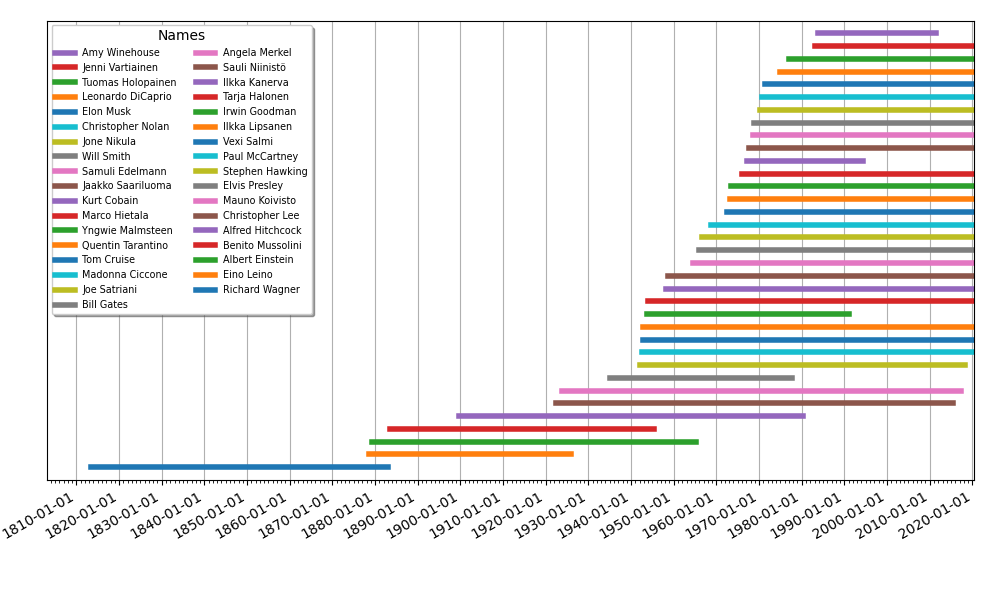
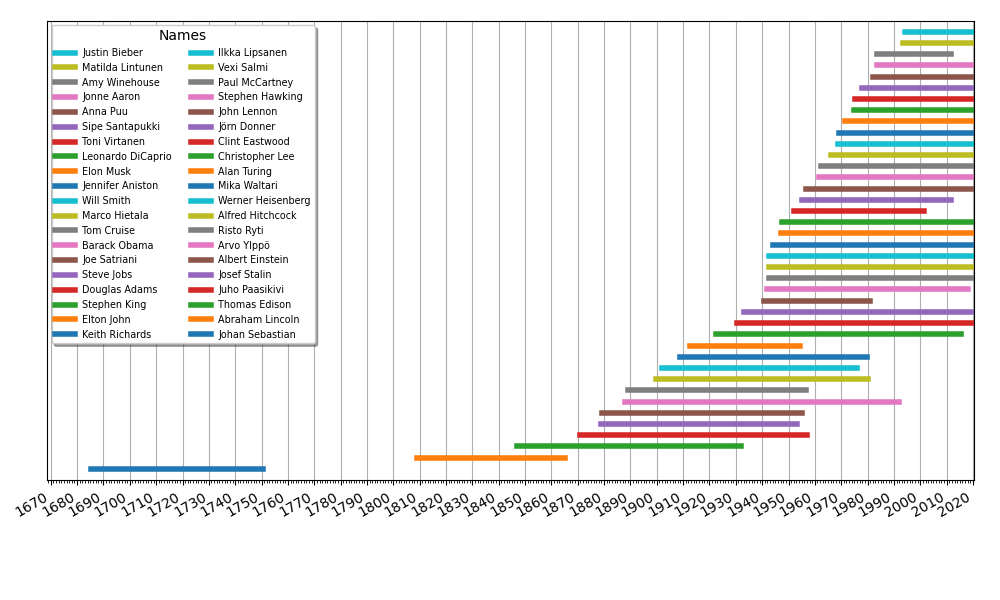
cleaned, user input options added

Changed region(s): [[0.0, 0.03, 0.992, 0.9], [0.031, 0.03, 0.341, 0.6]]

diff --git a/timeline.py b/timeline.py
@@ -26,6 +26,7 @@ from random import sample
 db_loc = './data/wiki.db'
 years = mdates.YearLocator(10)
 years_minor = mdates.YearLocator(1)
+years_fmt = mdates.DateFormatter('%Y')
 
 def store(name, born=None, died=None, source=None):
     """ Store a value to project specified database with columns mentioned below """
@@ -266,16 +267,17 @@ def plot_persons(amount):
     plt.xlim(right=d.today())
     ax.legend()
     ax.xaxis.set_major_locator(years)
+    ax.xaxis.set_major_formatter(years_fmt)
     ax.xaxis.set_minor_locator(years_minor)
-    fig.autofmt_xdate()
     plt.gca().axes.get_yaxis().set_visible(False)
     #plt.tight_layout(pad=0.05, h_pad=0.2, w_pad=0.2)
     plt.grid(True)
+    fig.autofmt_xdate()
 
     legend_col = int(len(people)/30)+1
     handles, labels = ax.get_legend_handles_labels()
     ax.legend(handles[::-1], labels[::-1], title='Names', loc='upper left', fontsize='x-small', shadow=True, ncol=legend_col)
-    plt.savefig('./images/timeline_02.png', dpi=100)
+    #plt.savefig('./images/timeline_02.png', dpi=100)
     plt.show()
 
 def add_dates(input_dict):
@@ -302,7 +304,7 @@ def user_input():
             count = input('How many:')
             plot_persons(int(count))
             continue
-        elif person == 'age':
+        elif person == 'all' or person == 'a':
             print_by_age()
             continue
         store_list([person])
